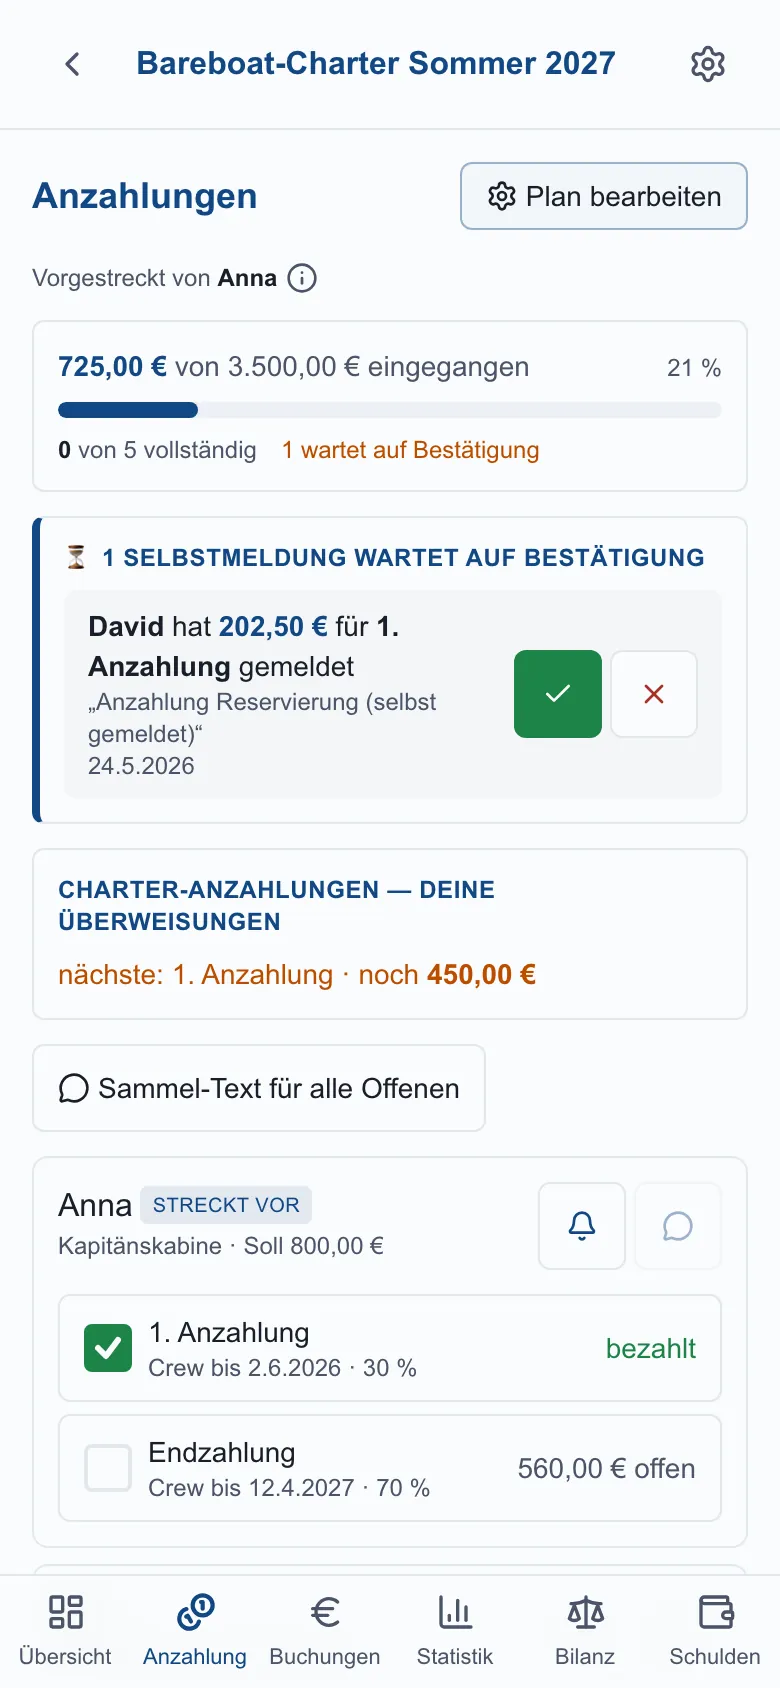
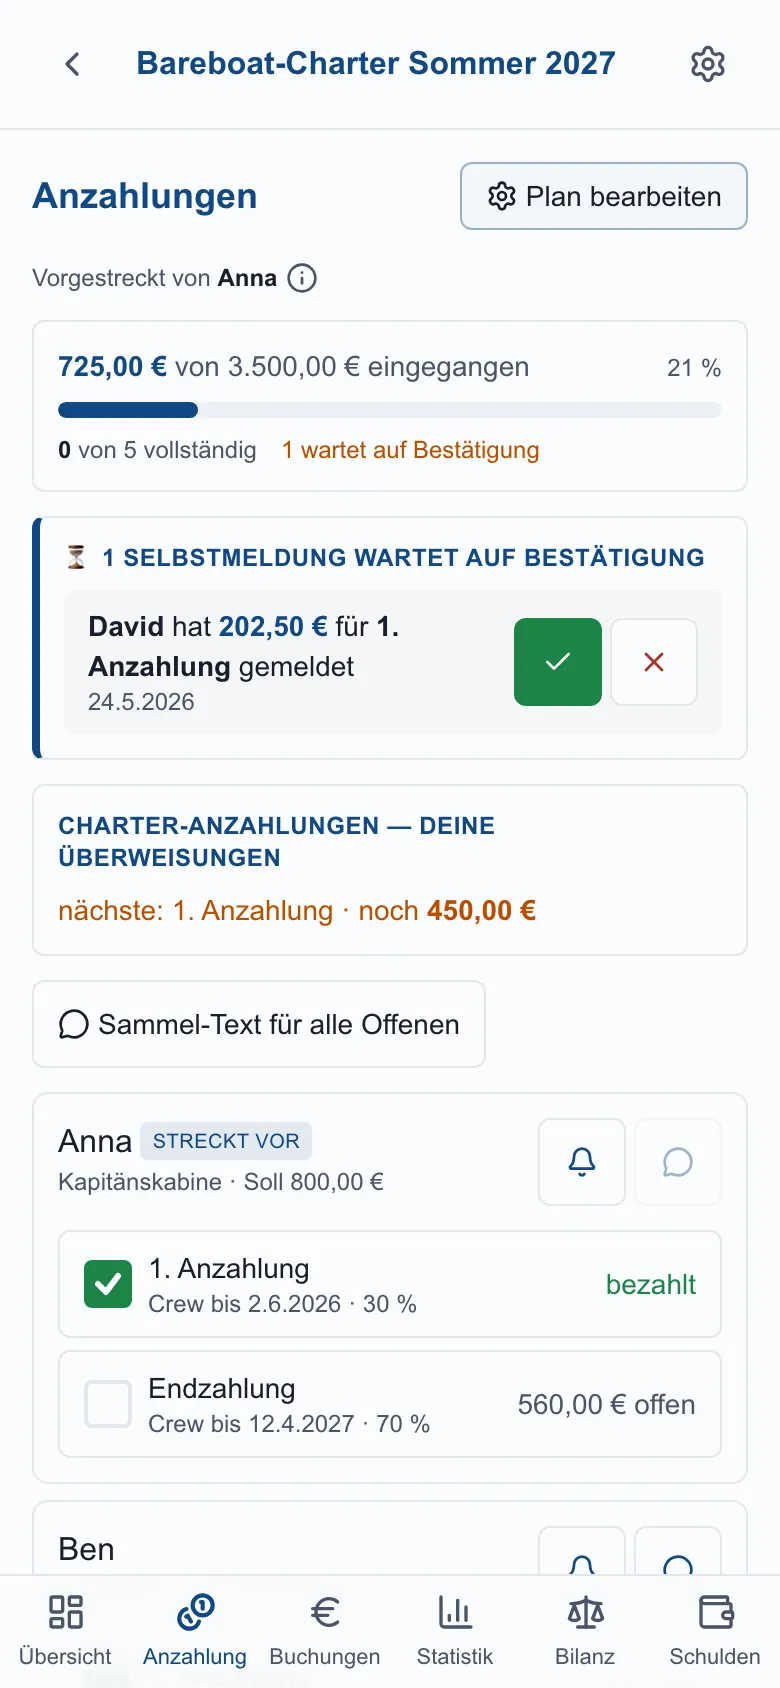
about+prepayments: Überschriften entdoppeln + redundanten Pending-Text entfernen
- /about: „Dein Törn im Überblick" → „Törn-Fortschritt in fünf Phasen"
  (dedupe gegen „Törn-Übersicht" / „Übersicht pro Törn").
- /about: „Anzahlungs-Matrix — wer hat wann was gezahlt" →
  „Wer hat welche Anzahlung gezahlt?".
- matrix.tsx: im Pending-Banner die Buchungs-Beschreibung (text-ink-soft)
  entfernt — redundant zur Zeile „X hat Y € für N. Anzahlung gemeldet" und
  teils irreführend (Seed-Default „Anzahlung Reservierung …").
- 16-anzahlung-matrix.webp neu generiert (Pending-Karte ohne die graue Zeile).

diff --git a/webapp/app/trips/[id]/prepayments/matrix.tsx b/webapp/app/trips/[id]/prepayments/matrix.tsx
@@ -945,9 +945,9 @@ function PendingBanner({
                 <strong>{name}</strong> hat{" "}
                 <strong className="text-primary">{formatEuro(p.amount)}</strong> für{" "}
                 <strong>{tranche?.label ?? "Tranche"}</strong> gemeldet
-                {p.description && (
-                  <span className="block text-xs text-ink-soft">„{p.description}&ldquo;</span>
-                )}
+                {/* Buchungs-Beschreibung bewusst NICHT anzeigen — sie ist
+                    redundant zur Zeile darüber („X hat Y € für N. Anzahlung
+                    gemeldet") und enthält teils irreführende Seed-/Default-Texte. */}
                 <span className="block text-xs text-ink-soft">{formatDeDate(p.date)}</span>
               </div>
               <PendingActions transactionId={p.transaction_id} />

diff --git a/webapp/app/about/page.tsx b/webapp/app/about/page.tsx
@@ -110,7 +110,7 @@ const features: Feature[] = [
   },
   {
     id: "toern-ueberblick",
-    title: "Dein Törn im Überblick",
+    title: "Törn-Fortschritt in fünf Phasen",
     lead: "Eine Fortschritts-Karte führt den Skipper durch den ganzen Törn — von der Vorbereitung bis zur fertigen Abrechnung.",
     body: (
       <>
@@ -329,7 +329,7 @@ const features: Feature[] = [
   },
   {
     id: "anzahlung-matrix",
-    title: "Anzahlungs-Matrix — wer hat wann was gezahlt",
+    title: "Wer hat welche Anzahlung gezahlt?",
     lead: "Eine Person-mal-Tranche-Tabelle mit Status-Symbolen: offen, teilweise, bezahlt, überfällig, gemeldet aber unbestätigt.",
     body: (
       <>
